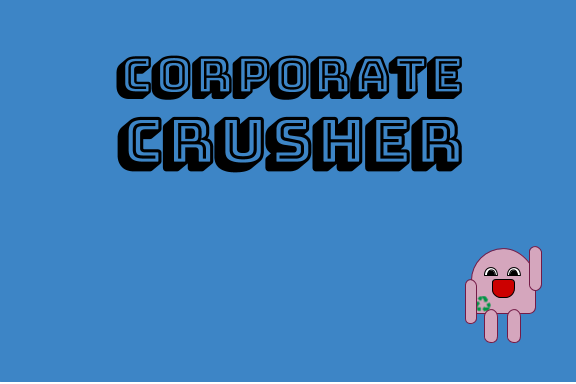
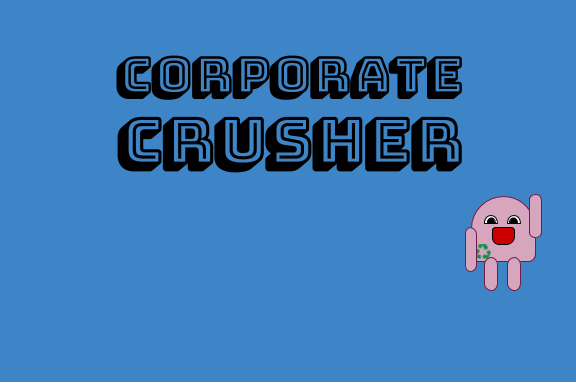
Add files via upload

Changed region(s): [[0.7812, 0.5, 0.9688, 0.9062]]

diff --git a/sketch.js b/sketch.js
@@ -1,29 +1,57 @@
+var start = false;
+var pressed = false;
+
 var beginPic;
 var imgBegin;
+var buttonPic;
 var imgButton;
-var start;
 var imgClear; 
+var imgRestart;
+var imgReplay;
+
+var imgScenery;
+var mainSprite;
 
 var bground;
-var imgBack;
-var mainSprite;
-var randomItem;
+var imgBackGood;
+var imgBackOkay;
+var imgBackBad;
 
 var imgGood1;
 var imgGood2;
 var imgGood3;
 var imgGood4; 
 
+var imgOkay1;
+var imgOkay2;
+var imgOkay3;
+var imgOkay4;
+
+var imgBad1;
+var imgBad2;
+var imgBad3;
+var imgBad4; 
+
 var imgAspen;
+var imgWindex;
+var imgCastile;
 var imgDawn;
 var imgLush;
 var imgNeutro;
 
+var textAspen;
+var textWindex;
+var textCastile;
+var textDawn;
+var textLush;
+var textNeutro;
+
 var imgLife;
 var imgDeath; 
-var life; 
+var life = 0; 
 
 var allItems;
+var info;
 
 class Product{
 	constructor(name, x_pos, y_pos, imgURL, good) {
@@ -31,6 +59,7 @@ class Product{
 		this.object = createSprite(x_pos, y_pos);
 		this.object.addImage(imgURL);
 		this.good = good;
+		this.info = ""
 	}
 }
 
@@ -38,14 +67,13 @@ class ProductList{
 	constructor(){
 		this.good = [];
 		this.bad = [];
-		this.goodScenery = [];
-		this.okayScenery = [];
-		this.badScenery = [];
 		this.life = [];
+		this.goodScenery = [];
 	}
 	
-	addProduct(name, x_pos, y_pos, imgURL, good){
+	addProduct(name, x_pos, y_pos, imgURL, good, infoURL){
 		var newProduct = new Product(name, x_pos, y_pos, imgURL, good);
+		newProduct.info = infoURL;
 		if (newProduct.good){
 			this.good.push(newProduct);
 		} else {
@@ -71,8 +99,10 @@ class ProductList{
 }
 
 function preload() {
-	imgBegin = loadImage("images/start.png");
+	imgBegin = loadImage("images/scenery/start.png");
 	imgButton = loadImage("images/play.png");	
+	imgRestart = loadImage("images/scenery/restart.png");
+	imgReplay = loadImage("images/replay.png");
 	imgClear = loadImage("images/scenery/clear.png");
 	
 	imgLife = loadImage("images/life.png");
@@ -83,20 +113,41 @@ function preload() {
 	imgGood3 = loadImage("images/scenery/good_house3.png");
 	imgGood4 = loadImage("images/scenery/good_house4.png");
 	
-	imgBack = loadImage("images/scenery/good_background.png");
+	imgOkay1 = loadImage("images/scenery/okay_house1.png");
+	imgOkay2 = loadImage("images/scenery/okay_house2.png");
+	imgOkay3 = loadImage("images/scenery/okay_house3.png");
+	imgOkay4 = loadImage("images/scenery/okay_house4.png");
+	
+	imgBad1 = loadImage("images/scenery/bad_house1.png");
+	imgBad2 = loadImage("images/scenery/bad_house2.png");
+	imgBad3 = loadImage("images/scenery/bad_house3.png");
+	imgBad4 = loadImage("images/scenery/bad_house4.png");
+	
+	imgBackGood = loadImage("images/scenery/good_background.png");
+	imgBackOkay = loadImage("images/scenery/okay_background.png");
+	imgBackBad = loadImage("images/scenery/bad_background.png");
+	
 	imgAspen = loadImage("images/products/aspen.png");
+	imgWindex = loadImage("images/products/windex.png");
 	imgDawn = loadImage("images/products/dawn.png");
+	imgCastile = loadImage("images/products/castile soap.png");
 	imgLush = loadImage("images/products/lush.png");
 	imgNeutro = loadImage("images/products/neutro.png");
+	
+	textAspen = loadImage("images/scenery/text_aspen.png");
+	textWindex = loadImage("images/scenery/text_windex.png");
+	textDawn = loadImage("images/scenery/text_dawn.png");
+	textCastile = loadImage("images/scenery/text_castile.png");
+	textLush = loadImage("images/scenery/text_lush.png");
+	textNeutro = loadImage("images/scenery/text_neutro.png");
 }
+
 function setup() {
 	createCanvas(577, 380);
 	beginButton = createSprite(300, 100);
 	
-	beginGame();
-	
 	bground = createSprite(288, 190);
-	bground.addImage(imgBack);
+	bground.addImage(imgBackGood);
 	
 	allItems = new ProductList();
 		
@@ -105,46 +156,47 @@ function setup() {
 	allItems.addScenery("Good1", 699, 142, imgGood3, "good");
 	allItems.addScenery("Good1", 1087, 142, imgGood4, "good");
 	
-	mainSprite = createSprite(50, 240, width/3, height/3);
-	mainSprite.addAnimation("walk", "images/main/main_walk1.png", "images/main/main_walk2.png", "images/main/main_walk3.png", "images/main/main_walk2.png", "images/main/main_walk1.png", "images/main/main_walk4.png", "images/main/main_walk5.png", "images/main/main_walk4.png");
-	mainSprite.addAnimation("jump", "images/main/main_jump.png");
+	info = createSprite(width/2, 185);
+	info.addImage(imgClear);
 	
-	allItems.addProduct("Aspen", 4000, 261, imgAspen, true);
-	allItems.addProduct("Dawn", 3000, 263, imgDawn, false);
-	allItems.addProduct("Lush", 2000, 262, imgLush, true);
-	allItems.addProduct("Neutro", 1000, 263, imgNeutro, false);
+	allItems.addProduct("Aspen", 3000, 261, imgAspen, true, textAspen);
+	allItems.addProduct("Windex", 4200, 262, imgWindex, false, textWindex);
+	
+	allItems.addProduct("Castile Soap", 3700, 263, imgCastile, true, textCastile);
+	allItems.addProduct("Dawn", 2400, 263, imgDawn, false, textDawn);
+
+	allItems.addProduct("Lush", 1700, 262, imgLush, true, textLush);
+	allItems.addProduct("Neutro", 1000, 263, imgNeutro, false, textNeutro);
 	
 	allItems.addLife("Life1", 450, 30, imgLife);
 	allItems.addLife("Life2", 500, 30, imgLife);
 	allItems.addLife("Life3", 550, 30, imgLife);
-		
-	start = false; 
+	
+	mainSprite = createSprite(50, 240, width/3, height/3);
+	mainSprite.addAnimation("walk", "images/main/main_walk1.png", "images/main/main_walk2.png", "images/main/main_walk3.png", "images/main/main_walk2.png", "images/main/main_walk1.png", "images/main/main_walk4.png", "images/main/main_walk5.png", "images/main/main_walk4.png");
+	mainSprite.addAnimation("jump", "images/main/main_jump.png");
+	mainSprite.addAnimation("die", "images/main/main_sad.png");
+	
+	imgScenery = [[imgBackGood, imgBackOkay, imgBackBad], [imgGood1, imgGood2, imgGood3, imgGood4], [imgOkay1, imgOkay2, imgOkay3, imgOkay4], [imgBad1, imgBad2, imgBad3, imgBad4]];
 	
 	if(!start){
 		beginPic = createSprite(289, 190);
 		beginPic.addImage(imgBegin);
-		life = 0;
+		buttonPic = createSprite(300, width/2);
+		buttonPic.addImage(imgButton);
 	}
 }
+
 function draw() {
 	background(200);
 	drawSprites();
-	
-	if(keyDown("space") & !start){
-		start = true;
-		beginPic.addImage(imgClear);
-		alert(start);
-	}
-	
-	if(keyDown("r")){
-		alert(start);
-	}
-	
+
+	beginGame();
+
 	if(start){
-		if(keyDown("space")){
+		if(keyWentDown("space")){
 		  mainSprite.changeAnimation("jump");
 		  jump();
-		  
 		}
 		
 		offObject();
@@ -202,8 +254,8 @@ function offObject(){
 function moveObject(){
 	setTimeout(function(){
 		for(var i = 0; i < allItems.good.length; i++){
-			allItems.good[i].object.position.x -= 5;
-			allItems.bad[i].object.position.x -= 5;
+			allItems.good[i].object.position.x -= (life + 1)*3.5;
+			allItems.bad[i].object.position.x -= (life + 1)*3.5;
 		}
 	}, 100);
 }
@@ -229,28 +281,69 @@ function moveScenery(){
 function objectCollide(){
 	for(var i = 0; i < allItems.good.length; i++){
 		if(mainSprite.overlap(allItems.good[i].object)){
-			allItems.good[i].object.position.x = getRandom(800, 2500);
+			allItems.good[i].object.position.x = getRandom(800, 4000);
+			info.addImage(allItems.good[i].info);
+			
+			setTimeout(function(){
+				info.addImage(imgClear);
+			}, 1500);
 		}
 		
 		if(mainSprite.overlap(allItems.bad[i].object)){
-			allItems.bad[i].object.position.x = getRandom(800, 2500);
+			allItems.bad[i].object.position.x = getRandom(800, 4000);
 			allItems.life[life].object.addImage(imgDeath);
+			info.addImage(allItems.bad[i].info);
+			
+			setTimeout(function(){
+				info.addImage(imgClear);
+			}, 1500);
+			
+			if (life < 2){
+				bground.addImage(imgScenery[0][life+1]);
+				for(var i = 0; i < allItems.goodScenery.length; i++){
+					allItems.goodScenery[i].object.addImage(imgScenery[life+2][i]);
+				}
+			}
 			life += 1;
 		}
 	}
 }
 
 function die(){
-	if (life > 2){
-		//start = false;
-		beginPic.addImage(imgBegin);
+	if (life > 2 && start){
+		start = false;
+		mainSprite.changeAnimation("die");
+		setTimeout(function(){
+			beginPic.addImage(imgRestart);
+			buttonPic.addImage(imgReplay);
+		}, 1000);
 	}
 }
 
 function beginGame(){
-	if(keyDown("space") & !start){
+	if(!start && pressed){
+		life = 0;
 		start = true;
+		mainSprite.changeAnimation("walk");
 		beginPic.addImage(imgClear);
-		alert(start);
+		buttonPic.addImage(imgClear);
+		bground.addImage(imgBackGood);
+		
+		for(var i = 0; i < allItems.life.length; i++){
+			allItems.life[i].object.addImage(imgLife);
+		}
+		
+		for(var i = 0; i < allItems.goodScenery.length; i++){
+			allItems.goodScenery[i].object.addImage(imgScenery[1][i]);
+		}
+		
+		pressed = false;
+	}
+}
+
+function mousePressed(){
+	var distance = dist(mouseX, mouseY, 300, width/2);
+	if (distance < 80){
+		pressed = true;
 	}
 }

diff --git a/index.html b/index.html
@@ -1,0 +1,24 @@
+<!DOCTYPE html>
+<html>
+
+<head>
+	<script src="libraries/p5.js" type="text/javascript"></script>
+	<script src="libraries/p5.play.js" type="text/javascript"></script>
+	<script src="libraries/p5.dom.js" type="text/javascript"></script>
+	<script src="sketch.js" type="text/javascript"></script>
+	
+	<style>
+	body {
+		margin: 0;
+		display: flex;
+		justify-content: center;
+		align-items: center;
+	}
+	</style>
+</head>
+
+<body>
+
+</body>
+
+</html>
